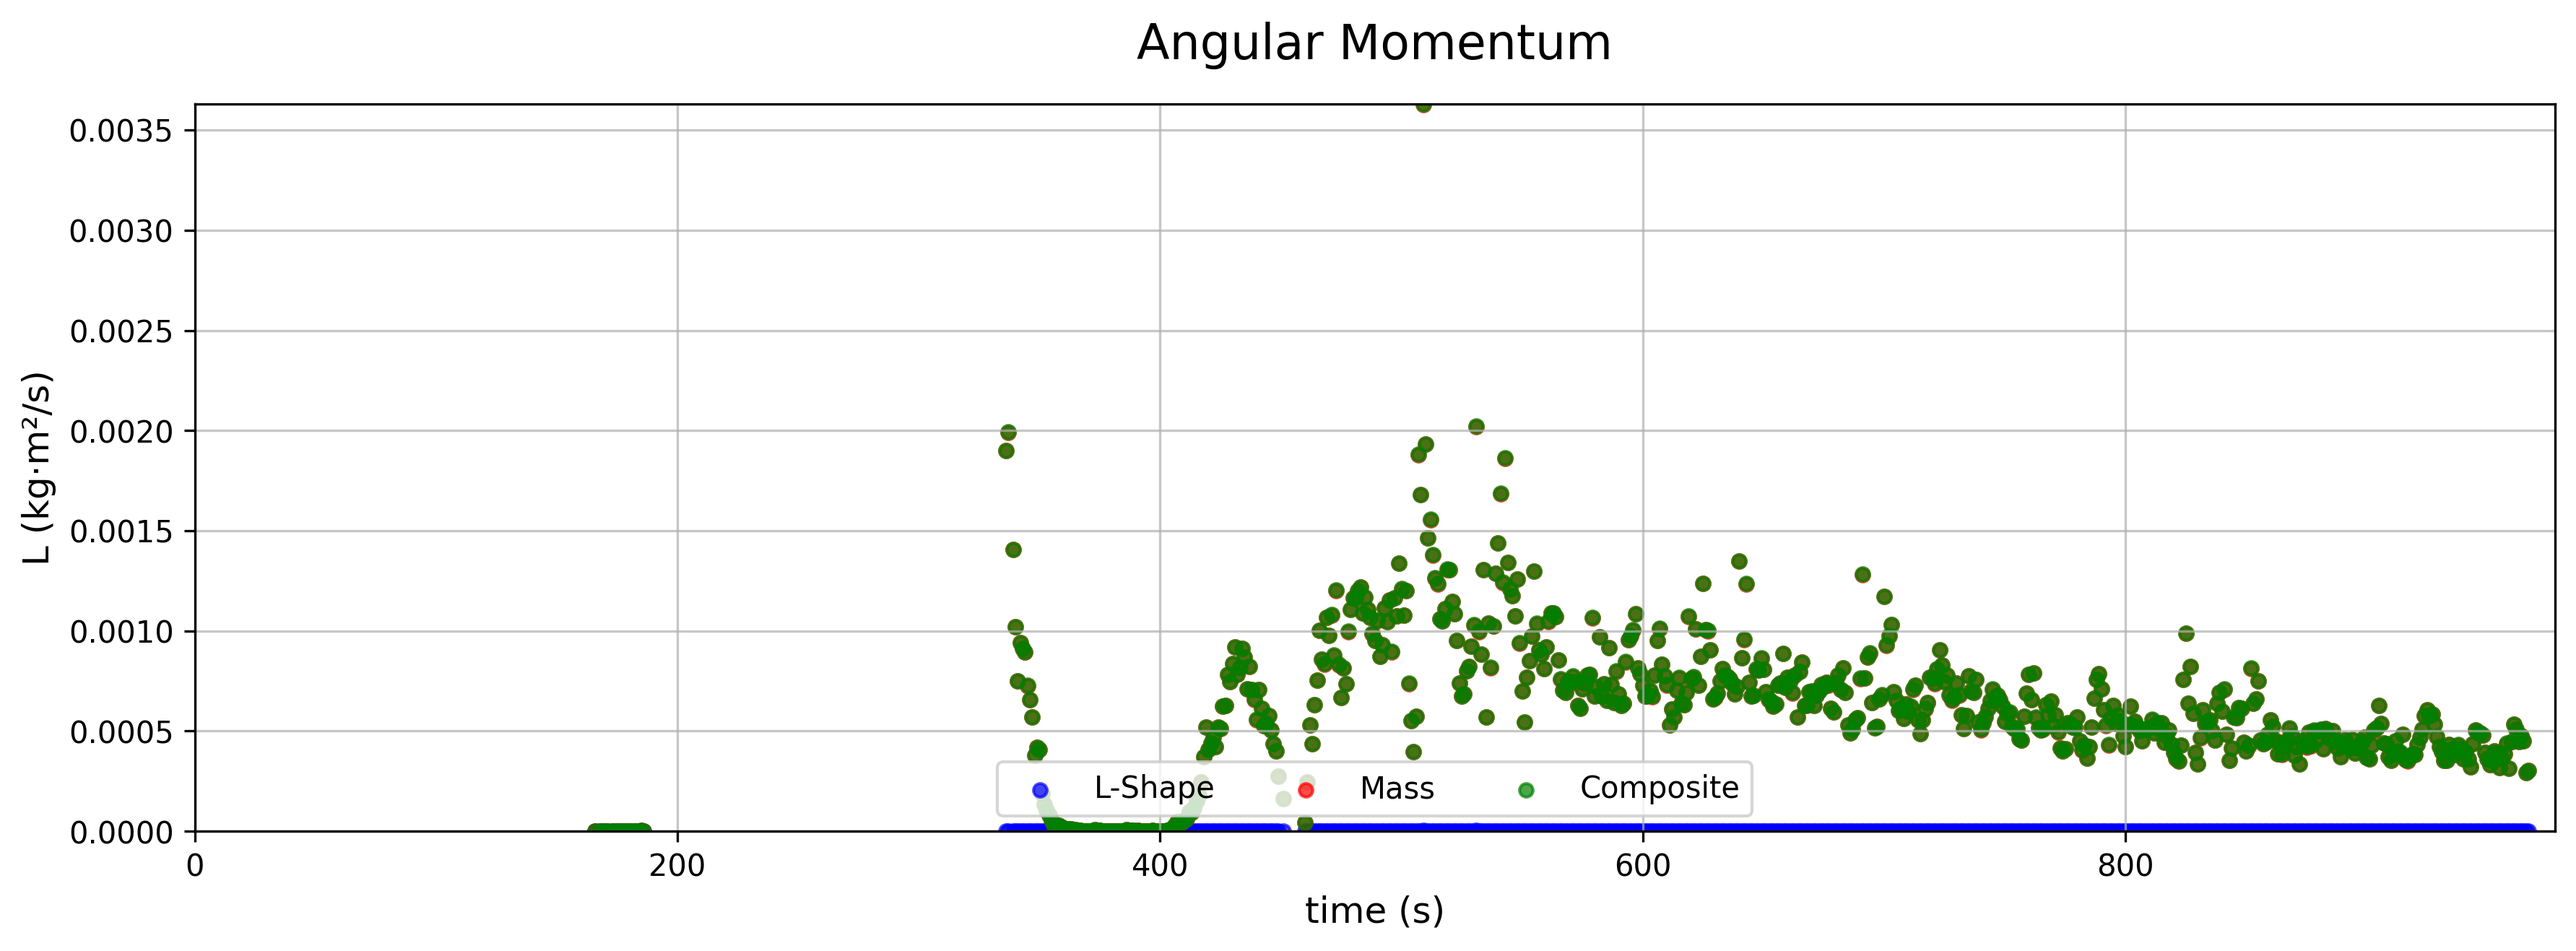
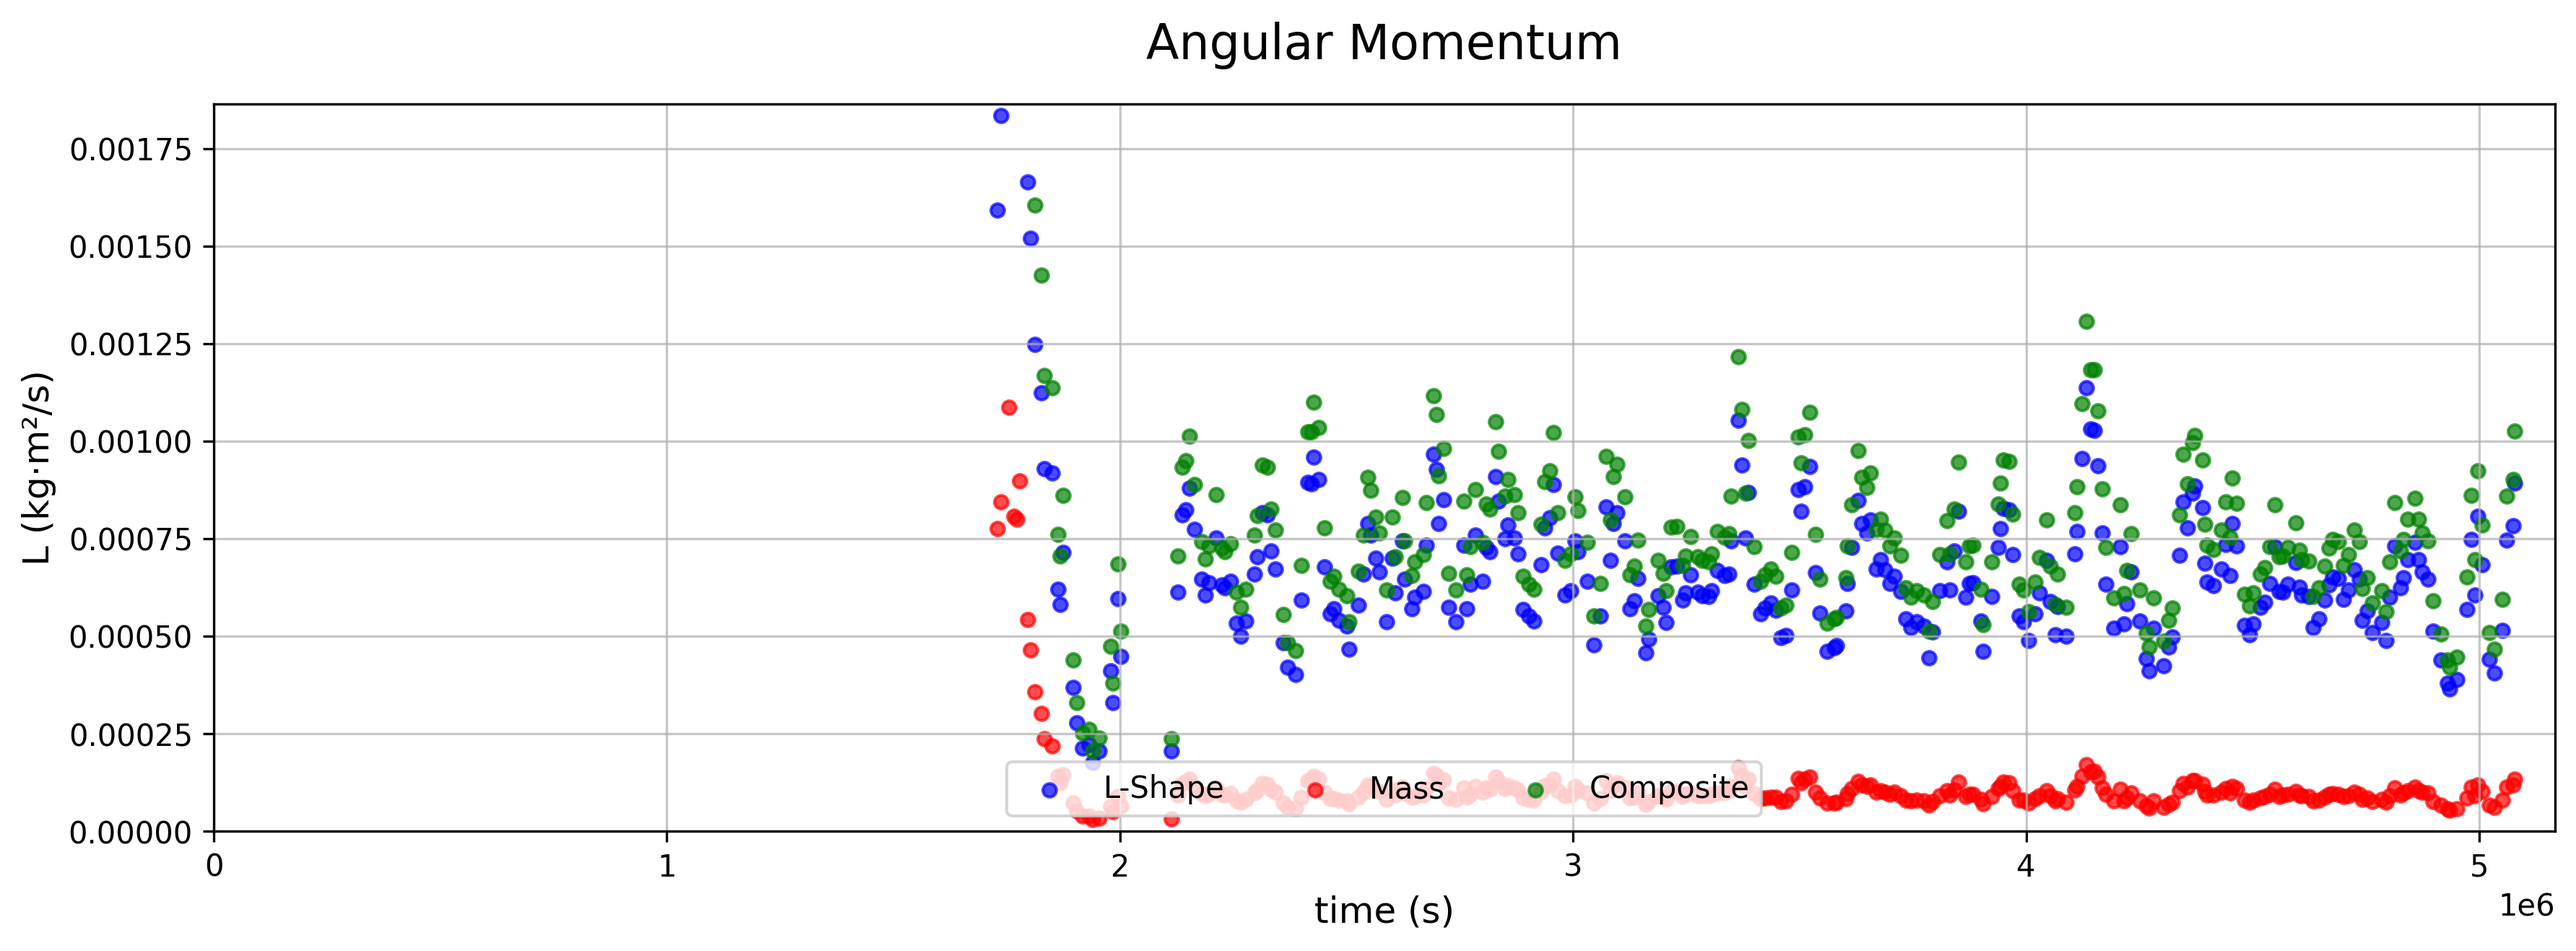
more graphs..z...

diff --git a/ENGR_216/Lab5/moment_of_inertia.py b/ENGR_216/Lab5/moment_of_inertia.py
@@ -3,50 +3,27 @@ import numpy as np
 import matplotlib.pyplot as plt
 import sys
 
-
-# [15%] A plot showing the angular momentum of the L shape and 20 g mass, 
-# and total as a function of time. This plot should include data before and 
-# after dropping the mass on the rotating shape. 
-# I = Icm + Md^2 
-#moi = moment of intertia
-def find_momentum_of_system(csv_file, output_file,
-                            x1_string, y1_string, x2_string, y2_string, 
-                            velocity_x_mass_string, velocity_y_mass_string, 
-                            moi_mass = 9.7e-4, moi_object = 1.32e-6, mass = 0.020): #units in kg m^2
+def find_velocity(csv_file, velocity_x_string, velocity_y_string):
     df = pd.read_csv(csv_file)
 
-    df['mass_radius'] = np.sqrt((df[x2_string] - df[x1_string]) ** 2 + (df[y2_string] - df[y1_string]) ** 2)
-    df['mass_velocity'] = np.sqrt((df[velocity_x_mass_string] ** 2 + df[velocity_y_mass_string] ** 2) ** 2)
-    df['new_moi_mass'] = moi_mass + mass * df['mass_radius'] ** 2
-    df['angular_speed'] = df["mass_velocity"] / df['mass_radius']
-    df['angular_momentum_mass'] = df['new_moi_mass'] * df['angular_speed']
-    df['angular_momentum_object'] = moi_object * df['angular_speed']
-
+    df['velocity'] = np.sqrt(df[velocity_x_string] ** 2 + df[velocity_y_string] ** 2)
     max_frame = df['frame_no'].max()
-    max_angular_momentum = df['angular_momentum_mass'].max() + df['angular_momentum_object'].max()
-
-    # for i in range(len(df)):
-    #     new_moi_mass = moi_mass + mass * df['radius_mass'].iloc[i] ** 2 
-    #     angular_speed = df[velocity_mass_string] / df['radius_mass'].iloc[i]
-    #     angular_momentum_mass = new_moi_mass * angular_speed
-    #     angular_momentum_object = moi_object * angular_speed
+    max_velocity = df['velocity'].max()
 
     plt.figure(figsize=(12,8))
-
     plt.subplot(2, 1, 1)
-    plt.scatter(df['frame_no'], df['angular_momentum_object'], color = "blue", alpha = 0.7, s = 20, label = 'L-Shape')
-    plt.scatter(df['frame_no'], df['angular_momentum_mass'], color = "red", alpha = 0.7, s = 20, label = 'Mass')
-    plt.scatter(df['frame_no'], df['angular_momentum_mass'] + df['angular_momentum_object'], color = "green", alpha = 0.7, s = 20, label = 'Composite')
+    plt.scatter(df['frame_no'], df['velocity'], color = "blue", alpha = 0.7, s = 20, label = "velocity")
 
-    plt.title('Angular Momentum', fontsize = 16, pad = 15)
-    plt.xlabel('time (s)', fontsize= 12)
-    plt.ylabel('L (kg·m²/s)', fontsize = 12)
+    plt.title("Velocity vs Frame", fontsize = 16, pad = 15)
+    plt.xlabel('Frame')
+    plt.ylabel('Velocity(m/s)', fontsize = 12)
     plt.grid(True, linestyle = '-', alpha = 0.7)
     plt.xlim(0, max_frame)
-    plt.ylim(0, max_angular_momentum)
+    plt.ylim(0, max_velocity)
 
-    plt.legend(loc = 'lower center', ncol=3)
-    plt.tight_layout()
+    plt.legend(loc = 'lower center', ncol = 3)
+    plt.tight_layout
+
 
     return df, plt
 
@@ -55,19 +32,9 @@ if len(sys.argv) < 2:
     print(sys.exit(1))
 
 csv_file = sys.argv[1]
-output_plot_file_path = sys.argv[2] if len(sys.argv) > 2 else "momentum_analysis.png"
+output_file = sys.argv[2] if len(sys.argv) > 2 else "velocity_analysis.png"
 
-x1_string = "r_x-green"
-y1_string = "r_y-green" 
-x2_string = "r_x-hotpink"
-y2_string = "r_y-hotpink"
-velocity_x_mass_string = "v_x-green"
-velocity_y_mass_string = "v_y-green"
-
-df, plt = find_momentum_of_system(csv_file, output_plot_file_path, 
-                            x1_string, y1_string, x2_string, y2_string,
-                            velocity_x_mass_string, velocity_y_mass_string)
-
-plt.savefig(output_plot_file_path, dpi = 300, bbox_inches='tight')
-
-
+velocity_x_string = "v_x-darkorange"
+velocity_y_string = "v_y-darkorange"
+df, plt = find_velocity(csv_file, velocity_x_string, velocity_y_string)
+plt.savefig(output_file, dpi = 300, bbox_inches = 'tight')

diff --git a/ENGR_216/Lab5/momentum.py b/ENGR_216/Lab5/momentum.py
@@ -1,0 +1,74 @@
+import pandas as pd
+import numpy as np
+import matplotlib.pyplot as plt
+import sys
+
+
+# [15%] A plot showing the angular momentum of the L shape and 20 g mass, 
+# and total as a function of time. This plot should include data before and 
+# after dropping the mass on the rotating shape. 
+# I = Icm + Md^2 
+#moi = moment of intertia
+def find_momentum_of_system(csv_file, output_file,
+                            x1_string, y1_string, x2_string, y2_string, 
+                            velocity_x_mass_string, velocity_y_mass_string, 
+                            moi_mass = 1.32e-6, moi_object = 9.7e-4, mass = 0.020): #units in kg m^2
+    df = pd.read_csv(csv_file)
+
+    df['mass_radius'] = np.sqrt((df[x2_string] - df[x1_string]) ** 2 + (df[y2_string] - df[y1_string]) ** 2)
+    df['mass_velocity'] = np.sqrt((df[velocity_x_mass_string] ** 2 + df[velocity_y_mass_string] ** 2) ** 2)
+    df['new_moi_mass'] = moi_mass + mass * df['mass_radius'] ** 2
+    df['angular_speed'] = df["mass_velocity"] / df['mass_radius']
+    df['angular_momentum_mass'] = df['new_moi_mass'] * df['angular_speed']
+    df['angular_momentum_object'] = moi_object * df['angular_speed']
+    df['time (s)'] = df['time (ms)'] * 1000
+
+    max_second = df['time (s)'].max()
+    max_angular_momentum = df['angular_momentum_mass'].max() + df['angular_momentum_object'].max() * 0.3
+
+    # for i in range(len(df)):
+    #     new_moi_mass = moi_mass + mass * df['radius_mass'].iloc[i] ** 2 
+    #     angular_speed = df[velocity_mass_string] / df['radius_mass'].iloc[i]
+    #     angular_momentum_mass = new_moi_mass * angular_speed
+    #     angular_momentum_object = moi_object * angular_speed
+
+    plt.figure(figsize=(12,8))
+
+    plt.subplot(2, 1, 1)
+    plt.scatter(df['time (s)'], df['angular_momentum_object'], color = "blue", alpha = 0.7, s = 20, label = 'L-Shape')
+    plt.scatter(df['time (s)'], df['angular_momentum_mass'], color = "red", alpha = 0.7, s = 20, label = 'Mass')
+    plt.scatter(df['time (s)'], df['angular_momentum_mass'] + df['angular_momentum_object'], color = "green", alpha = 0.7, s = 20, label = 'Composite')
+
+    plt.title('Angular Momentum', fontsize = 16, pad = 15)
+    plt.xlabel('time (s)', fontsize= 12) #figure out how to turn frame into s
+    plt.ylabel('L (kg·m²/s)', fontsize = 12)
+    plt.grid(True, linestyle = '-', alpha = 0.7)
+    plt.xlim(0, max_second)
+    plt.ylim(0, max_angular_momentum)
+
+    plt.legend(loc = 'lower center', ncol=3)
+    plt.tight_layout()
+
+    return df, plt
+
+if len(sys.argv) < 2:
+    print("Usage: python script.py <csv_file_path> [<output_plot_file_path>]")
+    print(sys.exit(1))
+
+csv_file = sys.argv[1]
+output_plot_file_path = sys.argv[2] if len(sys.argv) > 2 else "momentum_analysis.png"
+
+x1_string = "r_x-green"
+y1_string = "r_y-green" 
+x2_string = "r_x-hotpink"
+y2_string = "r_y-hotpink"
+velocity_x_mass_string = "v_x-green"
+velocity_y_mass_string = "v_y-green"
+
+df, plt = find_momentum_of_system(csv_file, output_plot_file_path, 
+                            x1_string, y1_string, x2_string, y2_string,
+                            velocity_x_mass_string, velocity_y_mass_string)
+
+plt.savefig(output_plot_file_path, dpi = 300, bbox_inches='tight')
+
+

diff --git a/ENGR_216/Lab5/find_frame_weight_added.py b/ENGR_216/Lab5/find_frame_weight_added.py
@@ -55,7 +55,7 @@ def find_stable_frames(csv_file, x1_string, y1_string, x2_string, y2_string, win
                     label = f'Stable Value: {result["distance"].mean():.4f}')
         plt.title('Point Distance Over Frames')
         plt.xlabel('Frame Number')
-        plt.ylabel('Distance')
+        plt.ylabel('Distance(cm)')
         plt.grid(True, alpha=0.3)
         plt.legend()
 
@@ -72,10 +72,10 @@ output_image = sys.argv[2] if len(sys.argv) > 2 else "distance_analysis.png"
 window_size = int(sys.argv[3]) if len(sys.argv) > 3 else 5
 threshold = float(sys.argv[4]) if len(sys.argv) > 4 else 0.05
 
-x1_string = "pos_pixel_x-green"
-y1_string = "pos_pixel_y-green" 
-x2_string = "pos_pixel_x-hotpink"
-y2_string = "pos_pixel_y-hotpink"
+x1_string = "r_x-green"
+y1_string = "r_y-green" 
+x2_string = "r_x-hotpink"
+y2_string = "r_y-hotpink"
 df, result, plt, stable_frames = find_stable_frames(csv_file, x1_string, y1_string, x2_string, y2_string, window_size, threshold)
 if result.empty:
     print("No frames found where distance stabilizes to a constant value")
